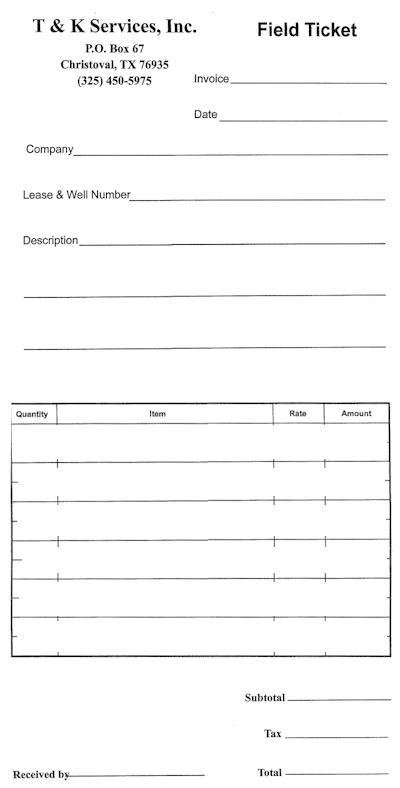
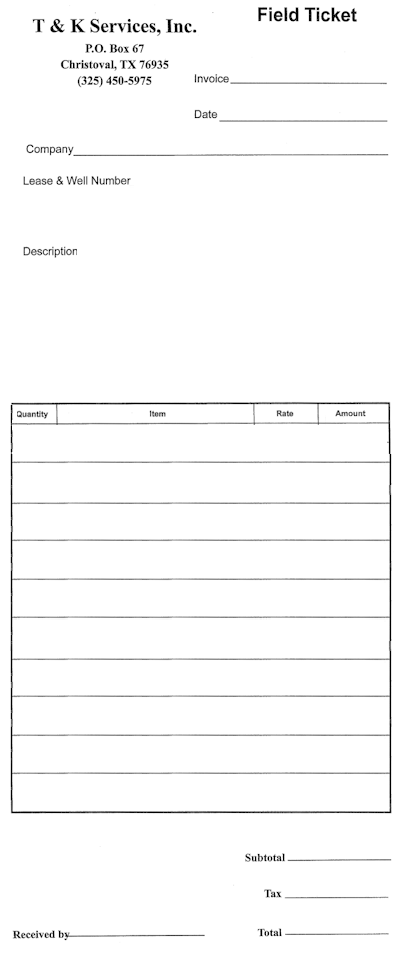
updates

diff --git a/index.html b/index.html
@@ -35,7 +35,7 @@
         }
 
         .invoice-container {
-            height: 829px;
+            height: 1033px;
             width: 400px;
             margin: auto;
             background: white;
@@ -101,68 +101,158 @@
 
         .amount {
             position: absolute;
-            left: 367px;
+            left: 360px;
         }
+
+        .ticket_number {
+            position: absolute;
+            font-weight: bold;
+        }
+
+        .line_item_qty {
+            width: 19px !important;
+            left: 14px !important;
+        }
+
+        .line_item_name {
+            width: 188px !important;
+            left: 64px !important;
+        }
+
+        .line_item_rate {
+            width: 47px !important;
+            left: 281px !important;
+        }
+
+        .line_item_amount {
+            width: 188px !important;
+            left: 64px !important;
+        }
+
+        .spinner {
+            width: 40px;
+            height: 40px;
+            border: 5px solid #ccc;
+            border-top-color: #3498db;
+            border-radius: 50%;
+            animation: spin 1s linear infinite;
+            margin: 20px auto;
+        }
+
+        @keyframes spin {
+        to { transform: rotate(360deg); }
+        }
+
+
     </style>
 
 </head>
 
 <body>
+    <div id="loadingMessage" style="display:none; margin-top: 30px;">
+        <b style="margin-left: 44%">Submitting Invoice...</b>
+        <div id="loader" class="spinner"></div>
+    </div>    
     <form id="invoiceForm">
         <div class="invoice-container form-background">
+
+            <span class="ticket_number" id="ticketNumber" style="top: 35px; left: 300px;">TST10001</span>
 
             <input type="text" id="invoiceNumber" style="left: 258px; top: 56px; width: 140px;" />
             <input type="date" id="invoiceDate" style="left: 258px; top: 94px; width: 140px;" required />
             <input type="text" id="companyName" style="left: 90px; top: 134px; width: 308px;" required />
-            <input type="text" id="leaseNumber" style="left: 152px; top: 180px; width: 250px;" />
-            <textarea id="jobDescription"
-                style="left: 97px; top: 233px; width: 305px; height: 165px; min-height: 70px;"></textarea>
             
-            <input type="text" id="lineitem1_qty" style="left: 14px; top: 469px; width: 19px;"
+            <textarea id="leaseNumber" 
+                style="left: 20px; top: 207px; width: 377px; height: 23px; min-height: 23px;"></textarea>
+           
+            <textarea id="jobDescription"
+                style="left: 20px; top: 286px; width: 377px; height: 110px; min-height: 70px;"></textarea>
+            
+            <!-- Item #1 -->
+            <input type="text" id="lineitem1_qty" class="line_item_qty" style="top: 469px;"
                 onchange="updateAmount()" />
-            <input type="text" id="lineitem1_name" style="left: 64px; top: 469px; width: 205px;" />
-            <input type="text" id="lineitem1_rate" style="left: 298px; top: 469px; width: 40px;"
+            <input type="text" id="lineitem1_name" class="line_item_name" style="top: 469px;" />
+            <input type="text" id="lineitem1_rate" class="line_item_rate" style="top: 469px;"
                 onchange="updateAmount()" />
             <span class="amount" id="amount1" style="top: 481px;">$0.00</span>
 
-            <input type="text" id="lineitem2_qty" style="left: 14px; top: 512px; width: 19px;"
+            <!-- Item #2 -->
+            <input type="text" id="lineitem2_qty" class="line_item_qty"  style="top: 515px;"
                 onchange="updateAmount()" />
-            <input type="text" id="lineitem2_name" style="left: 64px; top: 512px; width: 205px;" />
-            <input type="text" id="lineitem2_rate" style="left: 298px; top: 512px; width: 40px;"
+            <input type="text" id="lineitem2_name" class="line_item_name" style="top: 515px;" />
+            <input type="text" id="lineitem2_rate" class="line_item_rate" style="top: 515px;"
                 onchange="updateAmount()" />
-            <span class="amount" id="amount2" style="top: 524px;">$0.00</span>
+            <span class="amount" id="amount2" style="top: 527px;">$0.00</span>
+            
+            <!-- Item #3 -->
+            <input type="text" id="lineitem3_qty" class="line_item_qty" style="top: 558px;"
+                onchange="updateAmount()" />
+            <input type="text" id="lineitem3_name" class="line_item_name" style="top: 558px;" />
+            <input type="text" id="lineitem3_rate" class="line_item_rate" style="top: 558px;"
+                onchange="updateAmount()" />
+            <span class="amount" id="amount3" style="top: 570px;">$0.00</span>
 
-            <input type="text" id="lineitem3_qty" style="left: 14px; top: 555px; width: 19px;"
+            <!-- Item #4 -->
+            <input type="text" id="lineitem4_qty" class="line_item_qty" style="top: 602px;"
                 onchange="updateAmount()" />
-            <input type="text" id="lineitem3_name" style="left: 64px; top: 555px; width: 205px;" />
-            <input type="text" id="lineitem3_rate" style="left: 298px; top: 555px; width: 40px;"
+            <input type="text" id="lineitem4_name" class="line_item_name" style="top: 602px;" />
+            <input type="text" id="lineitem4_rate" class="line_item_rate" style="top: 602px;"
                 onchange="updateAmount()" />
-            <span class="amount" id="amount3" style="top: 567px;">$0.00</span>
+            <span class="amount" id="amount4" style="top: 615px;">$0.00</span>
 
-            <input type="text" id="lineitem4_qty" style="left: 14px; top: 598px; width: 19px;"
+            <!-- Item #5 -->
+            <input type="text" id="lineitem5_qty" class="line_item_qty" style="top: 644px;"
                 onchange="updateAmount()" />
-            <input type="text" id="lineitem4_name" style="left: 64px; top: 598px; width: 205px;" />
-            <input type="text" id="lineitem4_rate" style="left: 298px; top: 598px; width: 40px;"
+            <input type="text" id="lineitem5_name" class="line_item_name" style="top: 644px;" />
+            <input type="text" id="lineitem5_rate" class="line_item_rate" style="top: 644px;"
                 onchange="updateAmount()" />
-            <span class="amount" id="amount4" style="top: 610px;">$0.00</span>
+            <span class="amount" id="amount5" style="top: 657px;">$0.00</span>
 
-            <input type="text" id="lineitem5_qty" style="left: 14px; top: 640px; width: 19px;"
+            <!-- Item #6 -->
+            <input type="text" id="lineitem6_qty" class="line_item_qty" style="top: 689px;"
                 onchange="updateAmount()" />
-            <input type="text" id="lineitem5_name" style="left: 64px; top: 640px; width: 205px;" />
-            <input type="text" id="lineitem5_rate" style="left: 298px; top: 640px; width: 40px;"
+            <input type="text" id="lineitem6_name" class="line_item_name" style="top: 689px;" />
+            <input type="text" id="lineitem6_rate" class="line_item_rate" style="top: 689px;"
                 onchange="updateAmount()" />
-            <span class="amount" id="amount5" style="top: 652px;">$0.00</span>
+            <span class="amount" id="amount6" style="top: 701px;">$0.00</span>
 
-            <input type="text" id="lineitem6_qty" style="left: 14px; top: 681px; width: 19px;"
+            <!-- Item #7 -->
+            <input type="text" id="lineitem7_qty" class="line_item_qty" style="top: 732px;"
                 onchange="updateAmount()" />
-            <input type="text" id="lineitem6_name" style="left: 64px; top: 681px; width: 205px;" />
-            <input type="text" id="lineitem6_rate" style="left: 298px; top: 681px; width: 40px;"
+            <input type="text" id="lineitem7_name" class="line_item_name" style="top: 732px;" />
+            <input type="text" id="lineitem7_rate" class="line_item_rate" style="top: 732px;"
                 onchange="updateAmount()" />
-            <span class="amount" id="amount6" style="top: 693px;">$0.00</span>
+            <span class="amount" id="amount7" style="top: 744px;">$0.00</span>
 
-            <span class="amount" id="amountSubtotal" style="top: 752px; left: 323px;">$0.00</span>
-            <span class="amount" id="amountTax" style="top: 796px; left: 323px;">$0.00</span>
-            <span class="amount" id="amountTotal" style="top: 836px; left: 323px;">$0.00</span>
+            <!-- Item #8 -->
+            <input type="text" id="lineitem8_qty" class="line_item_qty" style="top: 773px;"
+                onchange="updateAmount()" />
+            <input type="text" id="lineitem8_name" class="line_item_name" style="top: 773px;" />
+            <input type="text" id="lineitem8_rate" class="line_item_rate" style="top: 773px;"
+                onchange="updateAmount()" />
+            <span class="amount" id="amount8" style="top: 784px;">$0.00</span>
+
+            <!-- Item #9 -->
+            <input type="text" id="lineitem9_qty" class="line_item_qty" style="top: 816px;"
+                onchange="updateAmount()" />
+            <input type="text" id="lineitem9_name" class="line_item_name" style="top: 816px;" />
+            <input type="text" id="lineitem9_rate" class="line_item_rate" style="top: 816px;"
+                onchange="updateAmount()" />
+            <span class="amount" id="amount9" style="top: 829px;">$0.00</span>
+
+            <!-- Item #10 -->
+            <input type="text" id="lineitem10_qty" class="line_item_qty" style="top: 858px;"
+                onchange="updateAmount()" />
+            <input type="text" id="lineitem10_name" class="line_item_name" style="top: 858px;" />
+            <input type="text" id="lineitem10_rate" class="line_item_rate" style="top: 858px;"
+                onchange="updateAmount()" />
+            <span class="amount" id="amount10" style="top: 871px;">$0.00</span>
+
+            <span class="amount" id="amountSubtotal" style="top: 933px; left: 323px;">$0.00</span>
+            <input type="text" id="amountTax" style="top: 956px; left: 314px; width: 88px;" onchange="updateAmount()" />
+            <span class="amount" id="amountTotal" style="top: 1015px; left: 323px;">$0.00</span>
+
+             <input type="text" id="receivedBy" style="top: 998px; left: 81px; width: 120px;" />
         </div>
         <div class="form-container">
             <button type="submit">Submit Invoice</button>
@@ -177,7 +267,7 @@
 
                 console.log('Current invoice number:', data.invoiceNumber);
 
-                document.getElementById('invoiceNumber').value = data.invoiceNumber;
+                document.getElementById('ticketNumber').textContent = 'TST' + data.invoiceNumber;
             } catch (err) {
                 console.error('Error fetching invoice number:', err);
             }
@@ -210,7 +300,7 @@
 
         function updateAmount() {
             let subTotal = 0;
-            for (let i = 1; i < 7; i++) {
+            for (let i = 1; i < 11; i++) {
                 let qty_el = document.getElementById('lineitem' + i + '_qty');
                 let qty = parseFloat(qty_el.value) || 0;
                 let rate_el = document.getElementById('lineitem' + i + '_rate');
@@ -221,9 +311,11 @@
             }
             document.getElementById('amountSubtotal').textContent = `$${subTotal.toFixed(2)}`;
 
-            let taxAmount = subTotal * 0.0825;
-            let totalAmount = subTotal + taxAmount;
-            document.getElementById('amountTax').textContent = `$${taxAmount.toFixed(2)}`;
+            let taxAmount = document.getElementById('amountTax').value;            
+            let totalAmount = subTotal;
+            if (!isNaN(taxAmount) && taxAmount > 0) {
+                totalAmount = subTotal + Number(taxAmount);
+            }
             document.getElementById('amountTotal').textContent = `$${totalAmount.toFixed(2)}`;
         }
         
@@ -246,10 +338,12 @@
             }
 
             subTotal = document.getElementById('amountSubtotal').textContent;
-            taxAmount = document.getElementById('amountTax').textContent;
+            taxAmount = document.getElementById('amountTax').value;
             totalAmount = document.getElementById('amountTotal').textContent;
 
             const data = {
+                user: 'Test User',
+                ticketNumber: ticketNumber.textContent,
                 companyName: companyName.value,
                 invoiceNumber: invoiceNumber.value,
                 invoiceDate: invoiceDate.value,
@@ -258,16 +352,19 @@
                 lineItems: lineItems,
                 subTotal: subTotal,
                 taxAmount: taxAmount,
-                totalAmount: totalAmount
+                totalAmount: totalAmount,
+                receivedBy: receivedBy.value
             };
 
             console.log("Invoice Submitted:", data);
 
-            claimInvoiceNumber(data.invoiceNumber);
+            document.getElementById('loadingMessage').style.display = "block";
+            document.getElementById('invoiceForm').style.display = "none";
+            
+            // claimInvoiceNumber(data.ticketNumber);
 
-            emailjs.send("service_ffzq9qn", "template_pr8w3ob", data)
+           emailjs.send("service_ffzq9qn", "template_pr8w3ob", data)
                 .then(() => {
-                    alert("Invoice submitted successfully");
                     setTimeout(() => {
                         location.reload();
                     }, 5000);
